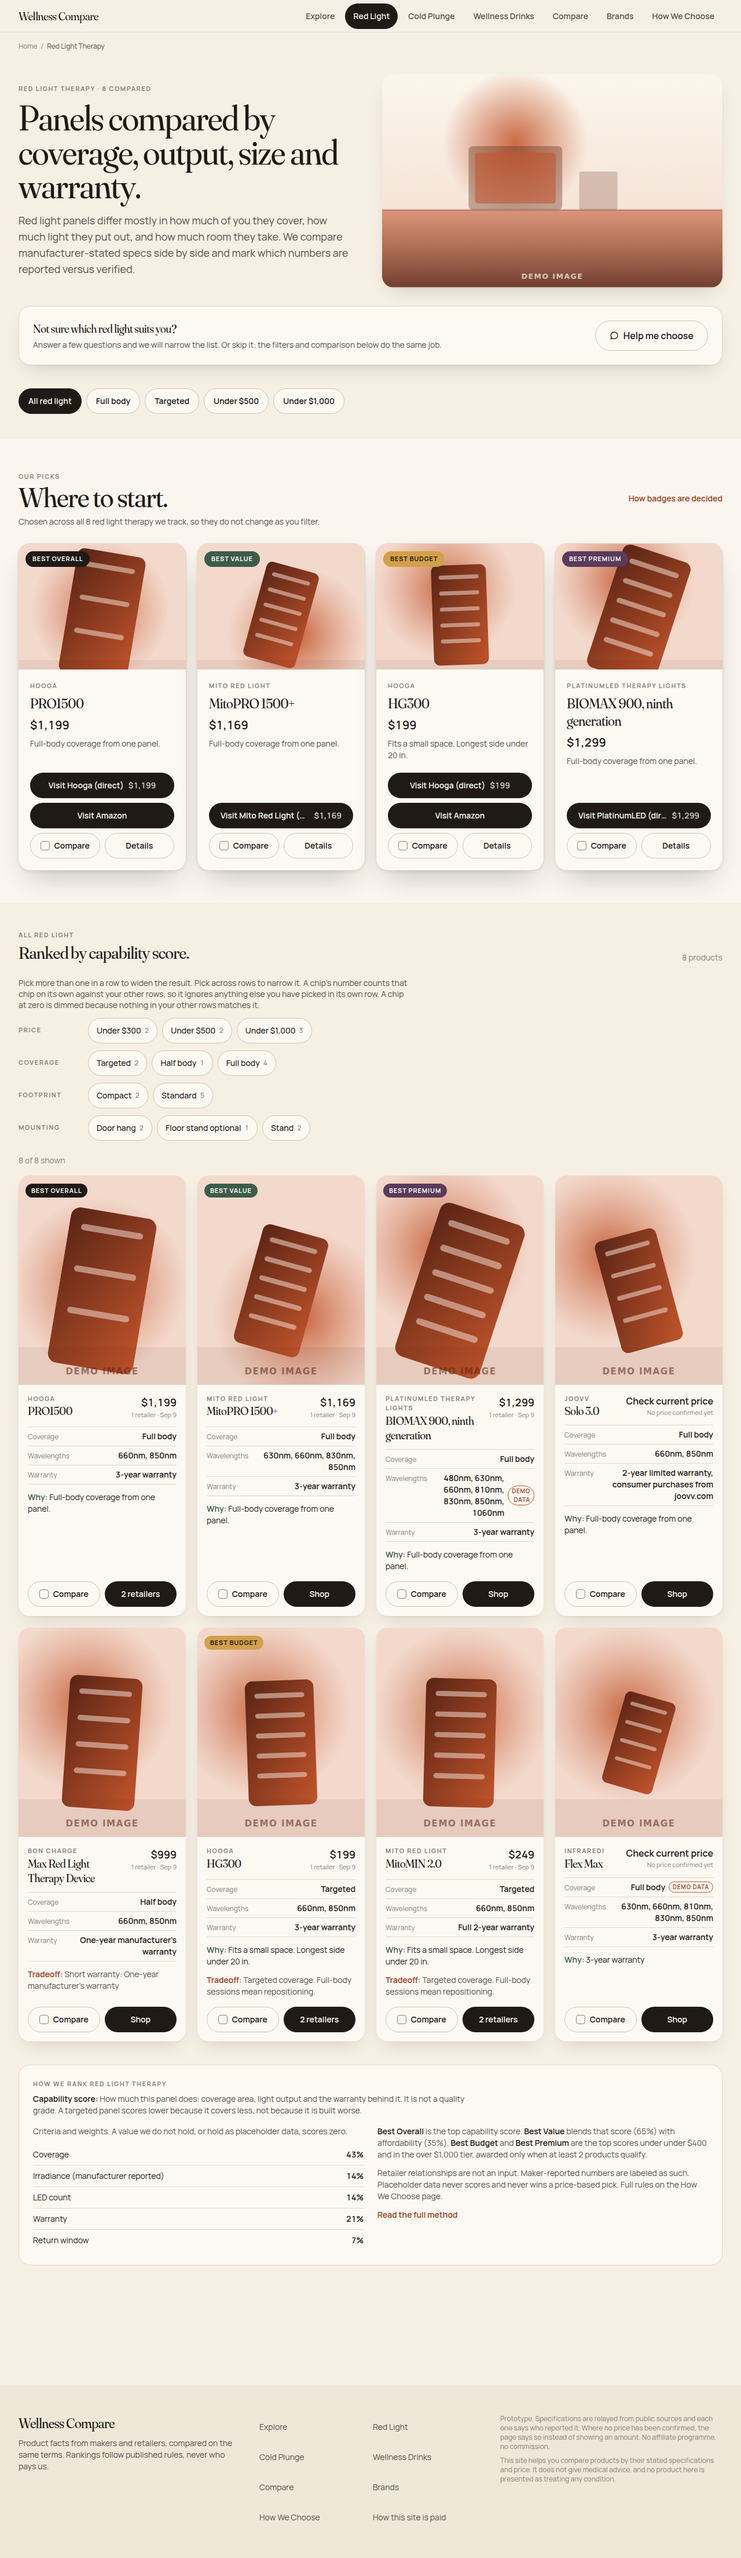
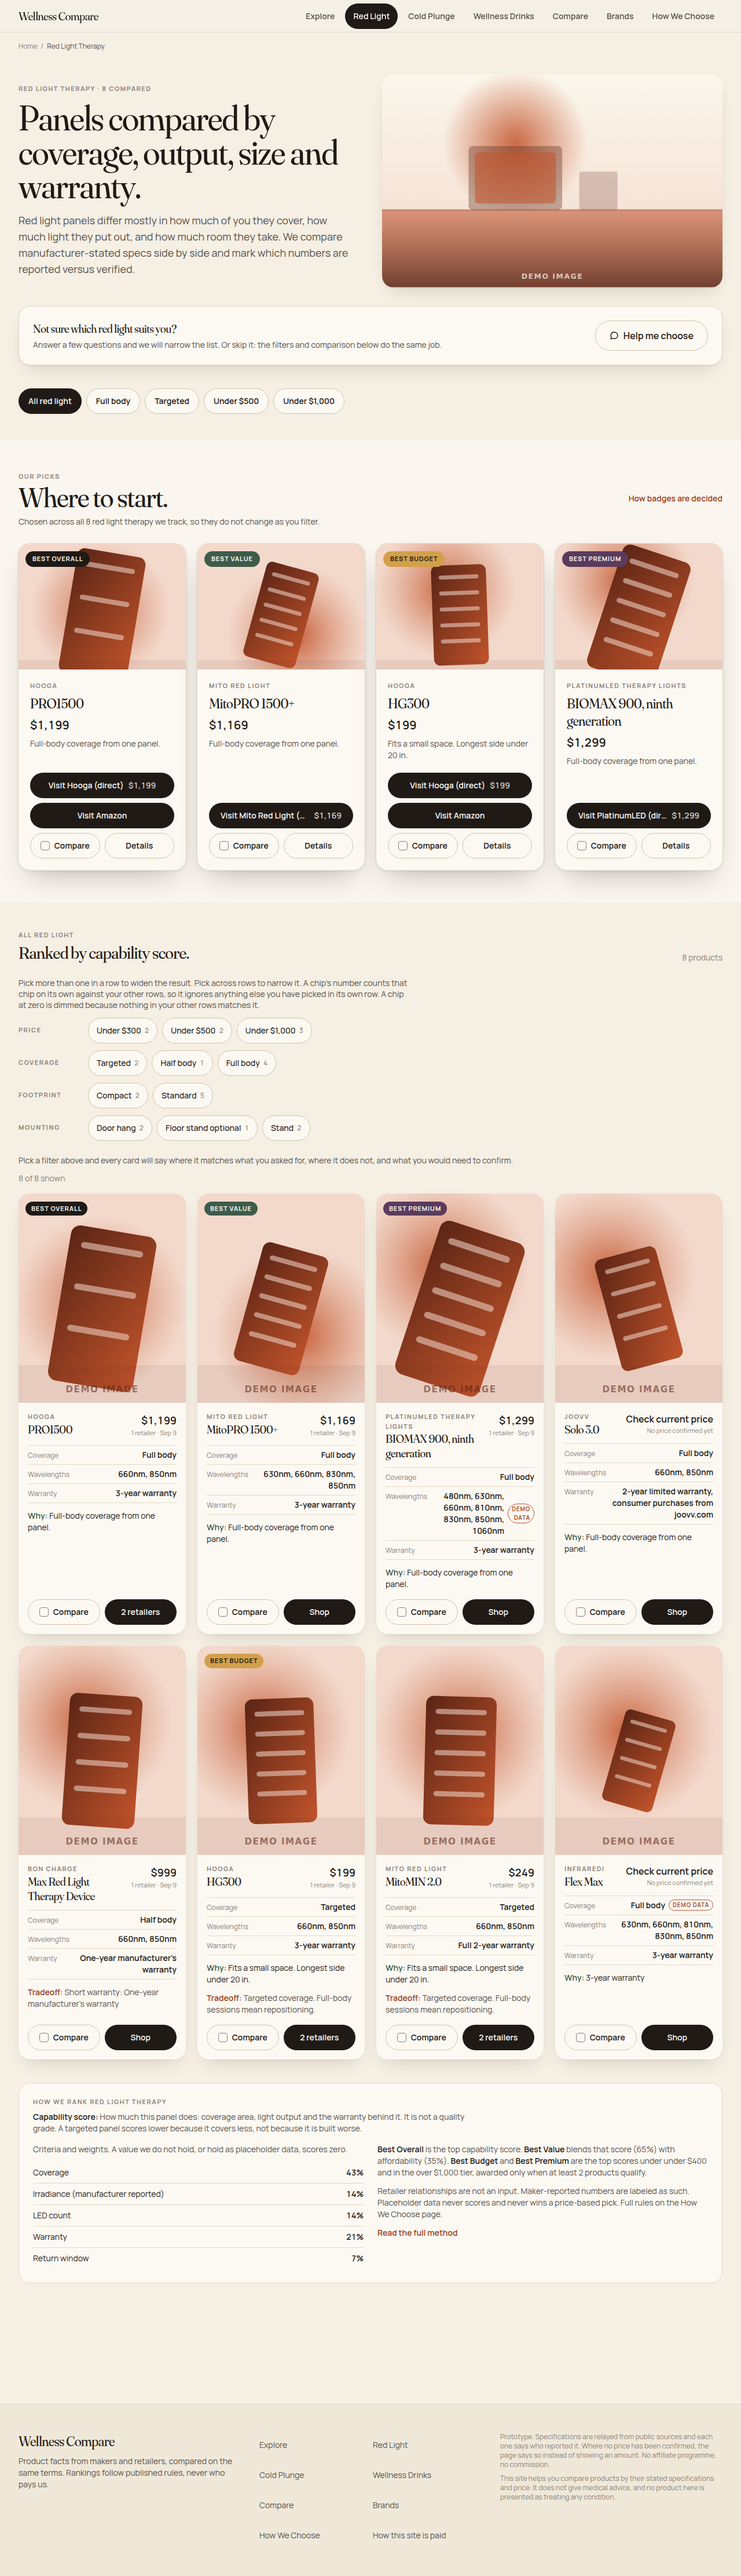
What the catalogue can decide, and what it cannot
docs/FIT-AND-DECISION-QUESTIONS.md, traced over the live catalogue. Every
requirement a shopper can express in each category, with how many products it
settles as a match, settles as a miss, and cannot place. Then every attribute
the category defines that no filter offers, with how many products hold a usable
value for it.

Three holes worth naming, and the fix for each is a source reading, not code.
Caffeine on drinks: four of six hold nothing usable, so "Caffeine free" places
two products and says nothing about the rest. Mounting on red light: four of
eight. Placement on cold plunges: three of six.

The questions this site cannot answer are listed rather than filtered into
existence. A shopper buys a cold plunge on "will I fit" and "how cold does it
go"; the catalogue holds the first for four of six and the second for three of
six, and neither is a filter. Adding one would put half the category in Needs
confirmation, which is an argument for reading sources, not for shipping a
chip.

Screenshots refreshed for the current build.

Claude-Session: https://claude.ai/code/session_01VzmQDNnyfBCpzcVKgw9S5M

diff --git a/docs/preview/index.html b/docs/preview/index.html
@@ -39,7 +39,7 @@
 <header>
   <h1>Wellness Compare</h1>
   <p>Screenshots of the built site. Every image is a real page from a production build served locally, not a mockup.</p>
-  <p class="meta">Build <code id="build">l1evBeTaoAowonhsVZjy6</code>, captured <span id="captured">2026-09-11</span>. Run it yourself with <code>npm run preview</code>.</p>
+  <p class="meta">Build <code id="build">SDbeq0KJhYpaMwiHmTWOs</code>, captured <span id="captured">2026-09-11</span>. Run it yourself with <code>npm run preview</code>.</p>
 </header>
 
 <div class="tabs" role="group" aria-label="Viewport">

diff --git a/docs/FIT-AND-DECISION-QUESTIONS.md b/docs/FIT-AND-DECISION-QUESTIONS.md
@@ -1,0 +1,222 @@
+# How it fits your needs: what the catalogue can decide
+
+Generated by hand from a trace over the live catalogue at the commit this file
+lands in. Re-run it after any reading changes the numbers.
+
+## What the feature is
+
+A shopper picks filters. Every card and every comparison column then says, for
+each thing they picked, one of three things:
+
+- **Matches.** The catalogue settles it as a yes.
+- **Does not match.** The catalogue settles it as a no.
+- **Needs confirmation.** The catalogue cannot settle it either way.
+
+There is no score, no percentage and no judgement of personal suitability.
+`src/domain/needs.ts` classifies; it never ranks. The capability score is a
+separate number measuring a different thing and nothing here reads it.
+
+## Why three states and not two
+
+`evaluateCondition` answers one question and answers it correctly: may this
+product be shown. It returns false for a product that fails, for one whose
+figure is unrecorded, and for one whose figure the catalogue holds but will not
+match on. A shopper weighing two products is asking a different question, and
+"does not match" and "we cannot tell" are not the same news. One rules a
+product out; the other is something to check with the maker before buying.
+
+The classifier never contradicts the engine. Anything the engine admits is a
+match, always; a test asserts that over every filter in every category. It only
+splits the engine's single false into the two kinds of no, using data the view
+already carries.
+
+### What counts as unable to settle
+
+- A money figure resting on a placeholder price. It qualifies nothing and
+  disqualifies nothing.
+- No amount at all. Plunge Original holds no usable price, so no budget
+  requirement can place it.
+- A figure the source states two ways, or one that cannot be shown to belong to
+  this product.
+- A figure stated by nothing this site treats as fact: demo data, or a page that
+  does not state it.
+- A bound too wide for the question. "Less than 1 g of sugar" settles "under
+  5 g" as a yes and "4 g or more" as a no; it settles "exactly 0 g" as neither.
+
+Zero and false are values, not absences. A drink recorded at 0 g of sugar fails
+"5 g or more" outright, and a tub recorded as having no chiller fails "chiller
+included" outright.
+
+### Where requirements come from
+
+- **Filter chips.** Options within a row are separate requirements, so two in
+  one row read as two lines, which is also how they behave: within a row they
+  are alternatives and the grid widens.
+- **The facet page you are on.** A shopper on `/red-light/under-1000` stated a
+  budget as surely as one who pressed the chip, and the page was the only thing
+  that knew it.
+- **Accepted assistant constraints**, marked "From your answers". Soft
+  preferences are not requirements: a preference orders the list and decides
+  nothing, so it is carried separately. A proposal the shopper has not accepted
+  is not a requirement at all.
+
+Requirements are classified on the server over the whole category, never over a
+page's visible subset, and read back per category. A comparison column is only
+ever measured against requirements from its own category.
+
+### A product the filters hold back
+
+A chip admits only what the catalogue settles, which is right: "under $2,000"
+must not show a product whose price nobody has confirmed. The product then
+leaves the page. The grid now says how many were held back that way and that
+they are neither a match nor a miss, so a shopper can go and look. No filtering
+changed.
+
+
+## Red Light Therapy (8 products)
+
+### Questions the shopper can ask, and what the catalogue can answer
+
+| Requirement | Row | Match | Miss | Needs confirmation |
+| --- | --- | --- | --- | --- |
+| Under $300 | Price | 2 | 4 | 2 |
+| Under $500 | Price | 2 | 4 | 2 |
+| Under $1,000 | Price | 3 | 3 | 2 |
+| Targeted | Coverage | 2 | 5 | 1 |
+| Half body | Coverage | 1 | 6 | 1 |
+| Full body | Coverage | 4 | 3 | 1 |
+| Compact | Footprint | 2 | 5 | 1 |
+| Standard | Footprint | 5 | 2 | 1 |
+| Large | Footprint | 0 | 7 | 1 |
+| Door hang | Mounting | 2 | 2 | 4 |
+| Floor stand optional | Mounting | 1 | 3 | 4 |
+| Stand | Mounting | 2 | 2 | 4 |
+| Full body | Facet page | 4 | 3 | 1 |
+| Targeted | Facet page | 2 | 5 | 1 |
+| Under $500 | Facet page | 2 | 4 | 2 |
+| Under $1,000 | Facet page | 3 | 3 | 2 |
+
+### Attributes the category defines but no filter offers
+
+| Attribute | Products holding a usable value |
+| --- | --- |
+| Wavelengths | 7 of 8 |
+| Irradiance | 3 of 8 |
+| At distance | 1 of 8 |
+| LED count | 6 of 8 |
+| Power draw | 4 of 8 |
+| App control | 1 of 8 |
+| Pulsing modes | 2 of 8 |
+| Warranty | 8 of 8 |
+| Return window | 7 of 8 |
+
+## Cold Plunges (6 products)
+
+### Questions the shopper can ask, and what the catalogue can answer
+
+| Requirement | Row | Match | Miss | Needs confirmation |
+| --- | --- | --- | --- | --- |
+| Under $500 | Price | 1 | 4 | 1 |
+| Under $2,000 | Price | 3 | 2 | 1 |
+| Under $5,000 | Price | 3 | 2 | 1 |
+| Chiller included | Chiller included | 3 | 3 | 0 |
+| Upright barrel | Tub type | 2 | 4 | 0 |
+| Reclined tub | Tub type | 2 | 4 | 0 |
+| Inflatable | Tub type | 2 | 4 | 0 |
+| Indoor | Placement | 2 | 1 | 3 |
+| Outdoor | Placement | 3 | 0 | 3 |
+| None. Fill with a hose. | Power | 3 | 1 | 2 |
+| Standard 120V outlet | Power | 1 | 3 | 2 |
+| Dedicated 120V circuit | Power | 0 | 4 | 2 |
+| With a chiller | Facet page | 3 | 3 | 0 |
+| Under $2,000 | Facet page | 3 | 2 | 1 |
+| Under $5,000 | Facet page | 3 | 2 | 1 |
+| Indoor | Facet page | 2 | 1 | 3 |
+
+### Attributes the category defines but no filter offers
+
+| Attribute | Products holding a usable value |
+| --- | --- |
+| Lowest temp | 3 of 6 |
+| Heating mode | 1 of 6 |
+| Water capacity | 4 of 6 |
+| Fits users up to | 4 of 6 |
+| Insulated shell | 5 of 6 |
+| Sanitation | 4 of 6 |
+| Sanitation methods | 1 of 6 |
+| Warranty | 3 of 6 |
+
+## Wellness Drinks (6 products)
+
+### Questions the shopper can ask, and what the catalogue can answer
+
+| Requirement | Row | Match | Miss | Needs confirmation |
+| --- | --- | --- | --- | --- |
+| Under $1 | Per serving | 0 | 6 | 0 |
+| Under $2 | Per serving | 4 | 2 | 0 |
+| Electrolytes | Function | 3 | 3 | 0 |
+| Energy | Function | 1 | 5 | 0 |
+| Greens | Function | 1 | 5 | 0 |
+| Hydration | Function | 2 | 4 | 0 |
+| Prebiotic | Function | 1 | 5 | 0 |
+| Powder stick pack | Format | 3 | 3 | 0 |
+| Powder, scoop | Format | 1 | 5 | 0 |
+| Ready to drink can | Format | 2 | 4 | 0 |
+| Zero sugar | Sugar | 2 | 3 | 1 |
+| Caffeine free | Caffeine | 1 | 1 | 4 |
+| Subscription | Subscription | 5 | 0 | 1 |
+| Electrolytes | Facet page | 3 | 3 | 0 |
+| Greens | Facet page | 1 | 5 | 0 |
+| Energy | Facet page | 1 | 5 | 0 |
+| Sugar-free | Facet page | 2 | 3 | 1 |
+
+### Attributes the category defines but no filter offers
+
+| Attribute | Products holding a usable value |
+| --- | --- |
+| Serving size | 6 of 6 |
+| Servings per pack | 6 of 6 |
+| Added sugar | 4 of 6 |
+| Calories | 6 of 6 |
+| Sodium | 5 of 6 |
+| Potassium | 4 of 6 |
+| Magnesium | 1 of 6 |
+| Fiber | 3 of 6 |
+| Sweeteners | 4 of 6 |
+| Dietary | 5 of 6 |
+| Subscription discount | 4 of 6 |
+
+## What this says about the catalogue
+
+Every "Needs confirmation" above is a hole in the record, not a defect in the
+feature. Three are worth naming.
+
+**Caffeine, on drinks.** Four of six hold no usable caffeine figure, so
+"Caffeine free" can settle one product as a yes and one as a no and says nothing
+about the other four. It is the weakest filter on the site.
+
+**Mounting, on red light.** Four of eight hold nothing usable, so every mounting
+chip leaves half the category unplaced.
+
+**Placement, on cold plunges.** Three of six hold nothing usable for indoor or
+outdoor.
+
+The fix for each is a source reading, not a code change.
+
+## Questions a shopper can reasonably ask and this site cannot answer
+
+Attributes the category defines and no filter offers are listed per category
+above. They are not filters and this batch invented none. The ones a shopper
+would most plausibly want to filter on, with what the catalogue holds:
+
+- **Red light:** irradiance (3 of 8), at distance (1 of 8), power draw (4 of 8).
+  A shopper asking "how strong is it" cannot narrow by it, and adding the filter
+  would place five of eight panels in Needs confirmation.
+- **Cold plunge:** lowest temperature (3 of 6), fits users up to (4 of 6),
+  sanitation (4 of 6). "Will I fit" and "how cold does it go" are the two
+  questions this category is bought on and neither is filterable.
+- **Wellness drinks:** sodium (5 of 6), potassium (4 of 6), magnesium (1 of 6).
+
+Nothing here is inferred from anything else. Room size is not read from a
+chiller, maintenance is not read from filtration, and personal suitability is
+not read from the capability score.
